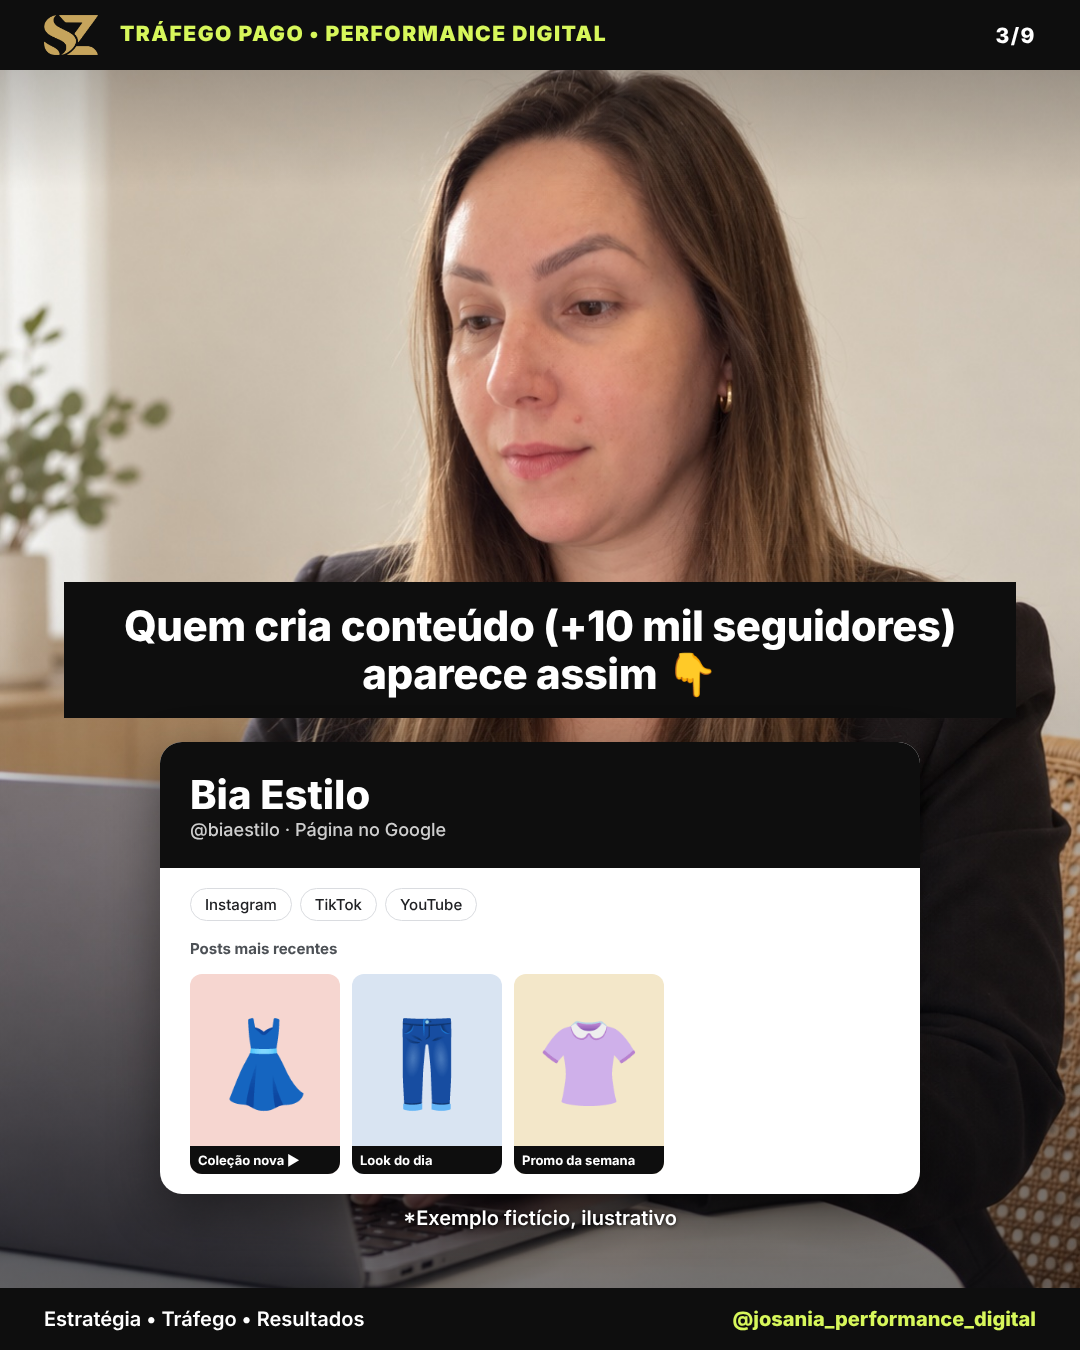
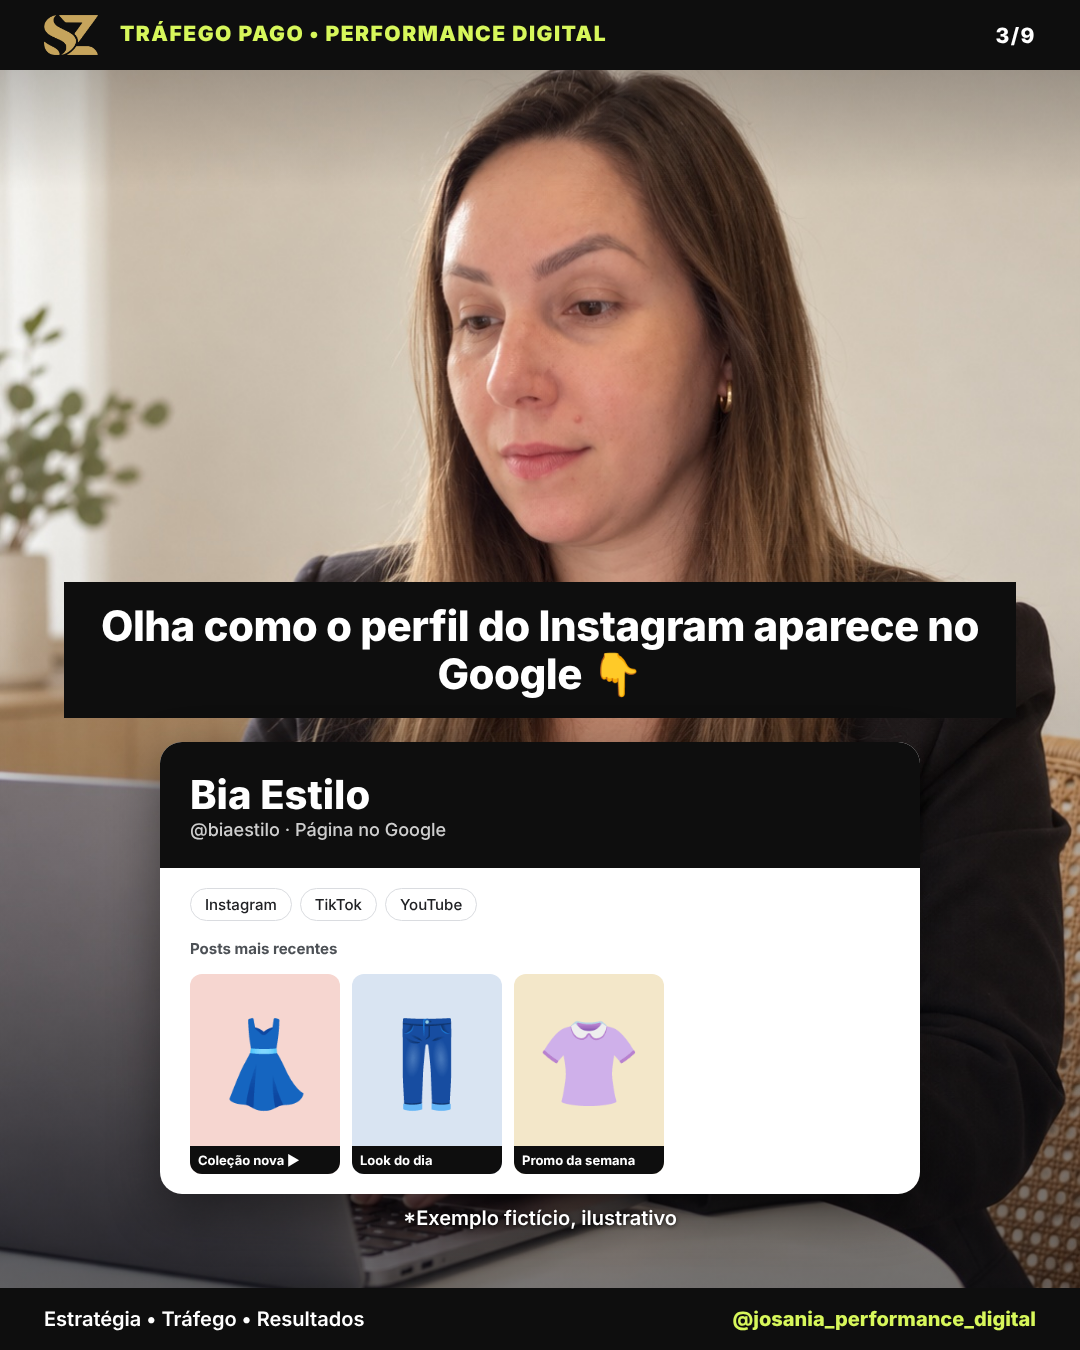
Explica a exigência de seguidores pelo perfil do Instagram
Claude-Session: https://claude.ai/code/session_01Cdq3fSAdowyFYcw5UgbxcJ

Changed region(s): [[0.0917, 0.4356, 0.9167, 0.5289]]

diff --git a/conteudos/carrossel-perfil-google/gerar.py b/conteudos/carrossel-perfil-google/gerar.py
@@ -165,9 +165,9 @@ def slides(m):
 <div style="padding:20px 30px"><span class="chip">Instagram</span><span class="chip">TikTok</span><span class="chip">YouTube</span>
 <div class="src" style="margin:18px 0 6px;font-weight:700">Posts mais recentes</div><div class="posts">{miniaturas()}</div></div></div>"""
     return [
-        f'{busca("Novidade no Google")}<div class="box ouro sm">🚨 Novidade no Google!</div><div class="box escuro big">Quem tem <span class="hl">muitos seguidores</span> agora ganha uma página no Google</div>',
+        f'{busca("perfil do Instagram no Google")}<div class="box ouro sm">🚨 Novidade no Google!</div><div class="box escuro">Se o perfil do seu Instagram tem <span class="hl">mais de 10 mil seguidores</span>, ele agora pode aparecer no Google!</div>',
         f'{busca("loja de roupas perto de mim")}<div class="box branco big">Mas e quem tem <span class="hla">LOJA?</span> 🤔</div><div class="box escuro sm">Vou te mostrar de um jeito simples 👇</div>',
-        f'<div class="box escuro sm">Quem cria conteúdo (+10 mil seguidores) aparece assim 👇</div>{perfil_pg}{NOTA}',
+        f'<div class="box escuro sm">Olha como o perfil do Instagram aparece no Google 👇</div>{perfil_pg}{NOTA}',
         f'{mapa()}<div class="box ouro sm">E a sua loja? 🛍</div><div class="box escuro">Ela aparece pelo <span class="hl">Google Meu Negócio</span> 📍</div><div class="gap"></div><div class="box branco sm">É aquela ficha com fotos, endereço, horário e avaliações</div>',
         f'<div class="box escuro sm">Ficha abandonada 😬<br><span class="hl">a cliente desiste e vai na concorrente</span></div>{painel_loja(m, False)}{NOTA}',
         f'<div class="box escuro sm">Ficha caprichada 🤩<br><span class="hl">a cliente confia e já chama no WhatsApp</span></div>{painel_loja(m, True)}{NOTA}',
